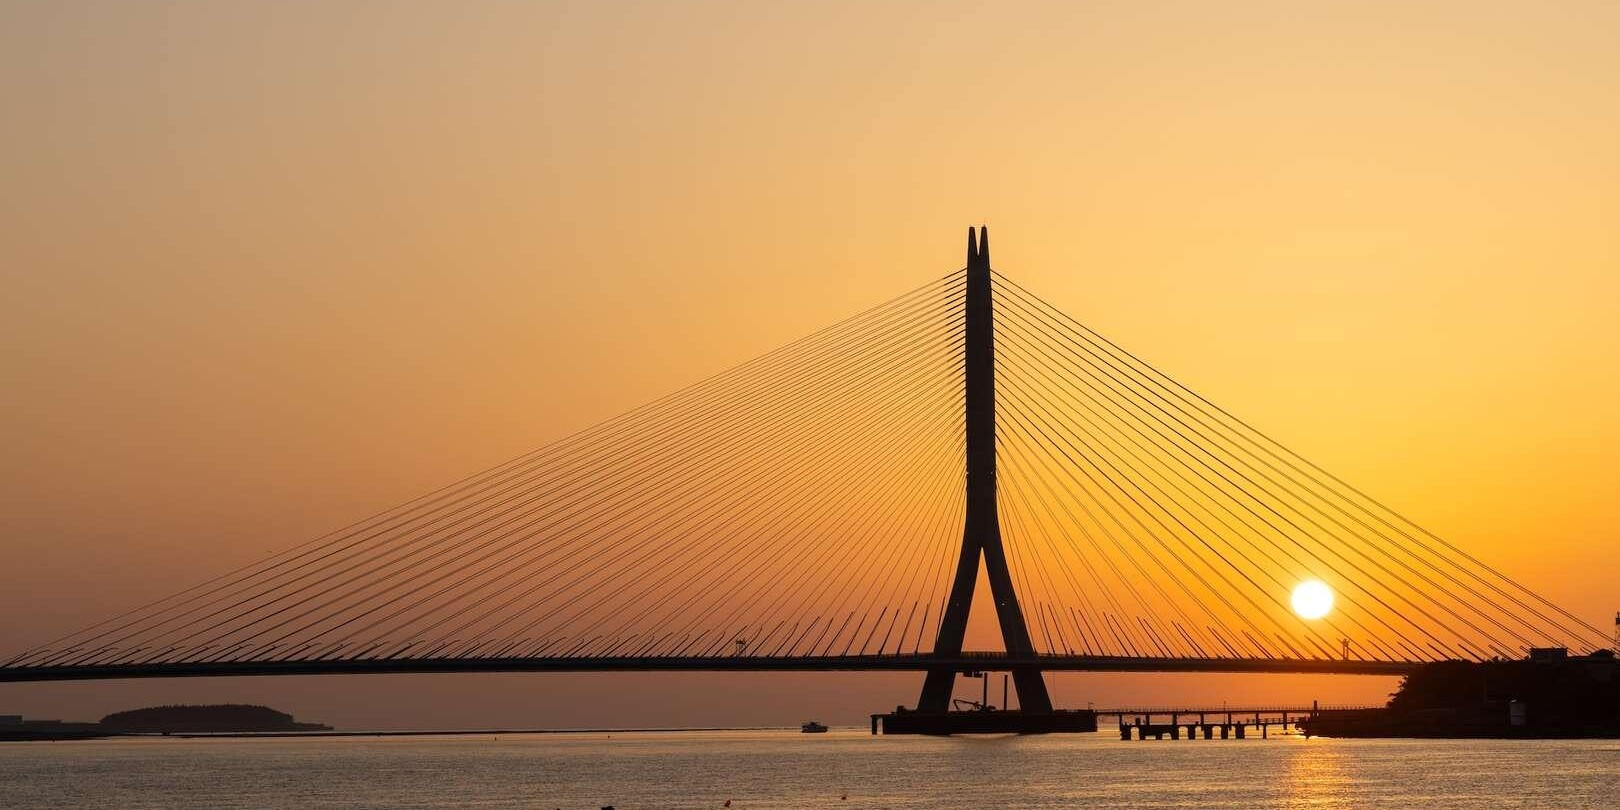
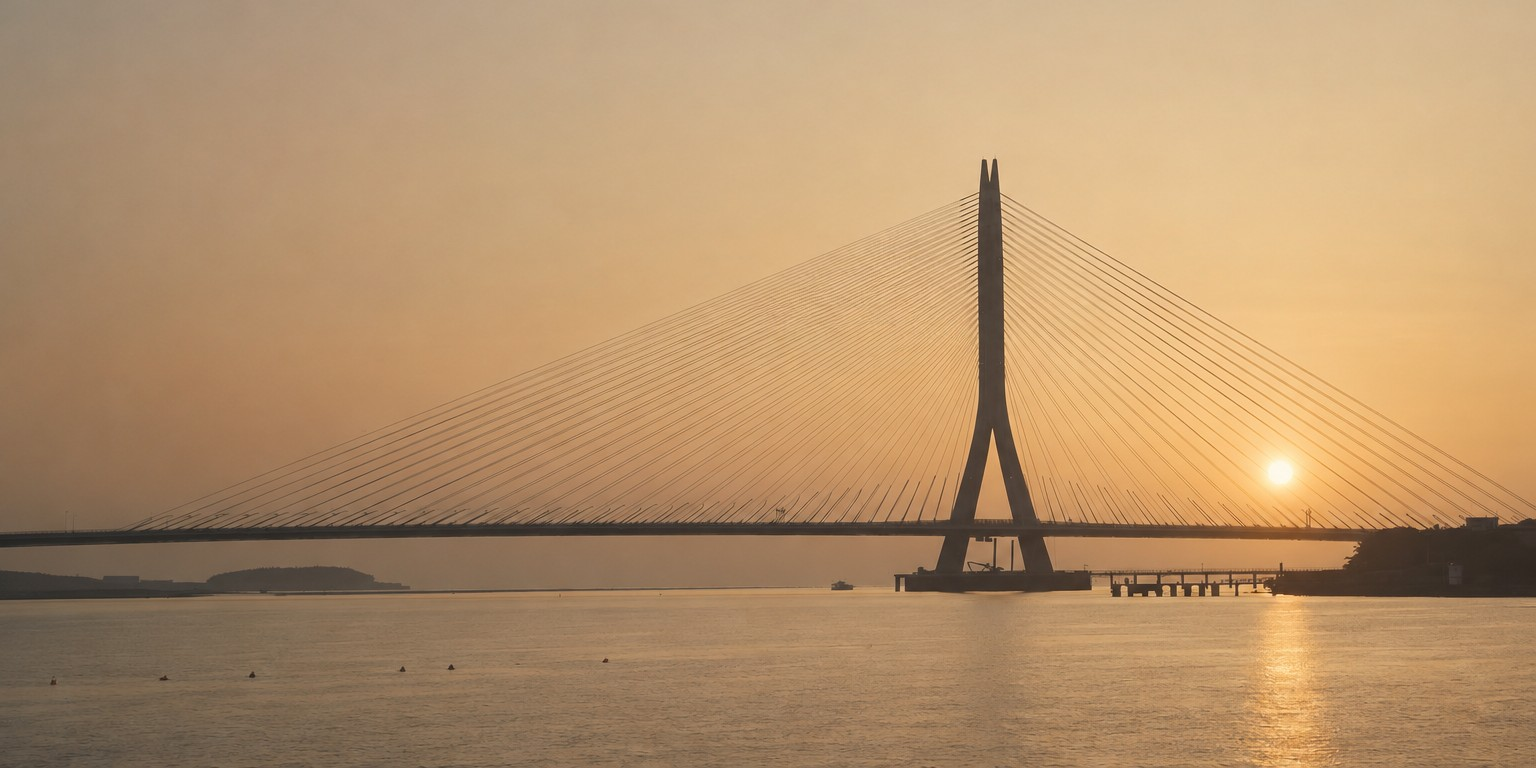
Swap hero background to the Hero2 crop (nothing else changed)
Replaces public/images/hero-tamsui-bridge.jpg with a 2:1 crop of
Hero2.png — same Tamsui bridge sunset, framed with more open water
below and less flat sky above. Overwrites the same filename Home.astro
already references, so no code changes were needed; verified the
image loads and the hero title/copy are untouched.

diff --git a/.claude/scripts/crop-hero-photo.py b/.claude/scripts/crop-hero-photo.py
@@ -1,16 +1,16 @@
 from PIL import Image
 
-SRC = r"C:\Users\bh062\OneDrive\文件\Claude\Projects\Bakery_Website\Image\Hero.jpg"
+SRC = r"C:\Users\bh062\OneDrive\文件\Claude\Projects\Bakery_Website\Image\Hero2.png"
 OUT = r"C:\Users\bh062\OneDrive\文件\Claude\Projects\Bakery_Website\public\images\hero-tamsui-bridge.jpg"
 
 im = Image.open(SRC)
 w, h = im.size
 print("source", w, h)
 
-# trim excess flat sky (top) and excess foreground water (bottom) to a wide 2:1
-# cinematic crop that keeps the bridge silhouette + sun centered; full width kept
-top = 90
-bottom = 900
+# trim excess flat sky from the top only (bridge sits lower in this frame than Hero.jpg),
+# keep full water at the bottom for grounding/reflection; same 2:1 cinematic ratio as before
+top = 256
+bottom = h
 cropped = im.crop((0, top, w, bottom))
 print("cropped", cropped.size, cropped.size[0] / cropped.size[1])
 